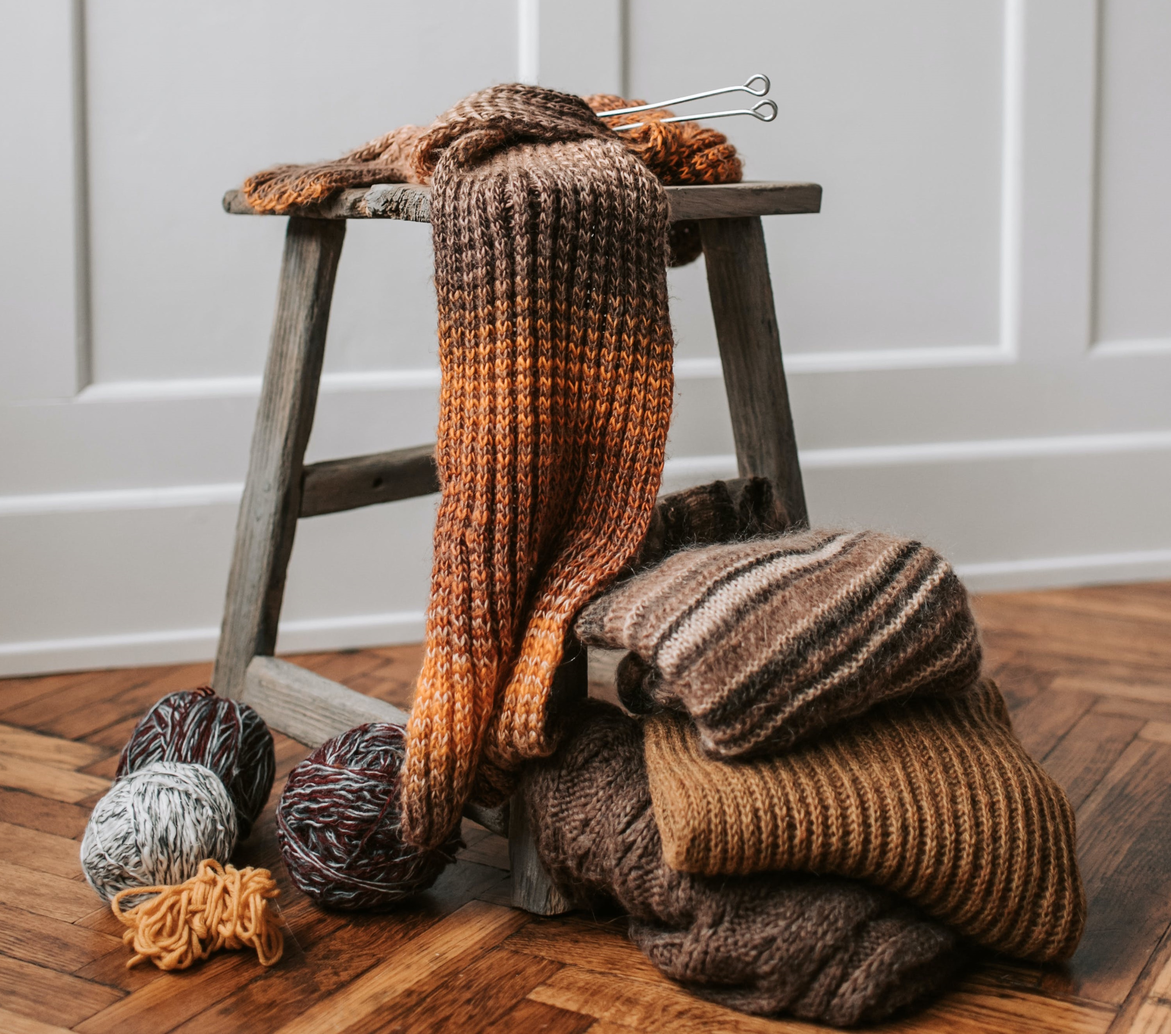
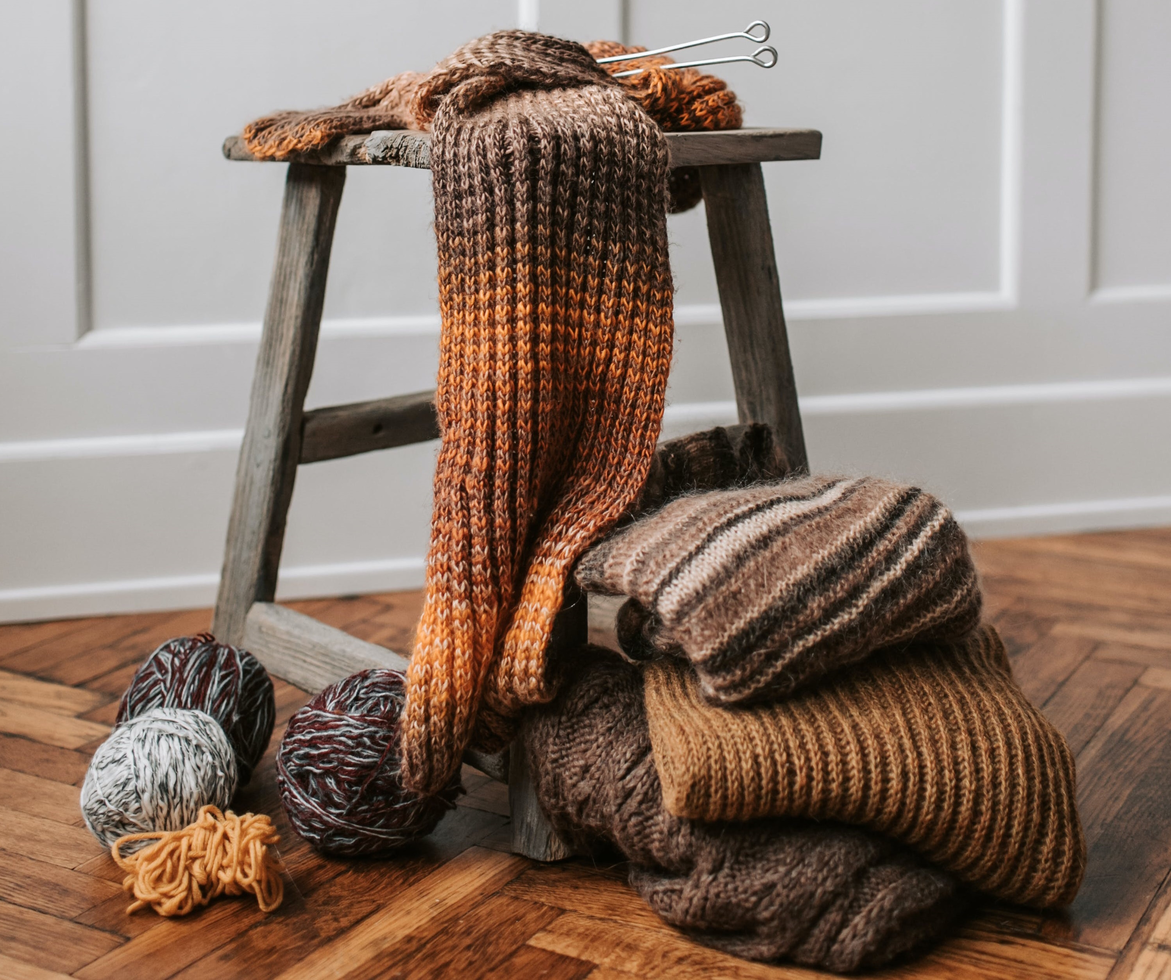
Hero fix

diff --git a/src/Components/Home.css b/src/Components/Home.css
@@ -15,19 +15,20 @@
 .left-half {
   flex: 1;
   border: 1px solid black;
-  overflow: hidden; /* Prevent content overflow */
+  overflow: hidden;
 }
 
 .left-half img {
-  width: 100%; /* Stretch the image to fit the container width */
-  height: auto; /* Maintain aspect ratio */
-  display: block; /* Remove any extra spacing around the image */
+  width: 100%;
+  height: 100%;
+  display: block;
   object-fit: cover;
 }
 
 .right-half {
   display: flex;
   flex-direction: column;
+  height: inherit;
   flex: 1;
   gap: 10px;
 }
@@ -36,13 +37,13 @@
 .right-bottom-right {
   flex: 1;
   border: 1px solid black;
-  overflow: hidden; /* Prevent content overflow */
+  overflow: hidden;
 }
 
 .right-top-right img,
 .right-bottom-right img {
-  width: 100%; /* Stretch the image to fit the container width */
-  height: auto; /* Maintain aspect ratio */
+  width: 100%;
+  height: 100%;
   display: block;
   object-fit: cover;
 }

diff --git a/src/Components/Home.js b/src/Components/Home.js
@@ -19,7 +19,7 @@ function Home() {
     //Feature 2
 
     //Footer
-    <body style={{ padding: '5%' }}>
+    <body style={{ padding: '2% 5% 5% 5%' }}>
       <div className="hero">
         <div className="left-half">
           <img src={hero1} alt="Some pillows on a bedside" />
